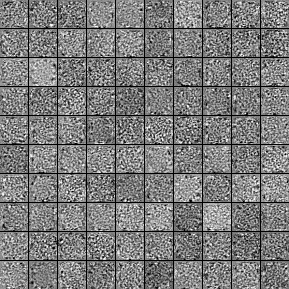
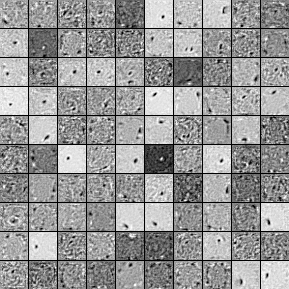
Promoting

diff --git a/library/Autoencoder.py b/library/Autoencoder.py
@@ -2,8 +2,13 @@ import tensorflow as tf
 
 
 class Autoencoder(object):
-
-    def __init__(self, n_layers, transfer_function=tf.nn.softplus, optimizer=tf.train.AdamOptimizer(), ae_para=[0, 0]):
+    def __init__(self,
+                 n_layers,
+                 transfer_function=tf.nn.relu,
+                 optimizer=tf.train.GradientDescentOptimizer(0.1),
+                 ae_para=[0, 0]):
+        
+        # AE层数
         self.n_layers = n_layers
         self.transfer = transfer_function
         self.in_keep_prob = 1 - ae_para[0]
@@ -12,32 +17,31 @@ class Autoencoder(object):
         self.weights = network_weights
         self.sparsity_level = 0.1  # np.repeat([0.05], self.n_hidden).astype(np.float32)
         self.sparse_reg = ae_para[1]
-        self.epsilon = 1e-06
 
         # model
-
         self.x = tf.placeholder(tf.float32, [None, self.n_layers[0]])
         self.keep_prob = tf.placeholder(tf.float32)
 
         self.hidden_encode = []
         h = tf.nn.dropout(self.x, self.keep_prob)
-        for layer in range(len(self.n_layers)-1):
+        for layer in range(len(self.n_layers) - 1):
             h = self.transfer(
                 tf.add(tf.matmul(h, self.weights['encode'][layer]['w']),
                        self.weights['encode'][layer]['b']))
             self.hidden_encode.append(h)
 
         self.hidden_recon = []
-        for layer in range(len(self.n_layers)-1):
+        for layer in range(len(self.n_layers) - 1):
             h = self.transfer(
                 tf.add(tf.matmul(h, self.weights['recon'][layer]['w']),
                        self.weights['recon'][layer]['b']))
             self.hidden_recon.append(h)
         self.reconstruction = self.hidden_recon[-1]
 
-        # cost
+        # costs
         if self.sparse_reg == 0:
-            self.cost = 0.5 * tf.reduce_sum(tf.pow(tf.subtract(self.reconstruction, self.x), 2.0))
+            self.cost = 0.5 * tf.reduce_sum(
+                tf.pow(tf.subtract(self.reconstruction, self.x), 2.0))
         else:
             self.cost = 0.5 * tf.reduce_sum(tf.pow(tf.subtract(self.reconstruction, self.x), 2.0))+\
                         self.sparse_reg * self.kl_divergence(self.sparsity_level, self.hidden_encode[-1])
@@ -49,16 +53,17 @@ class Autoencoder(object):
         initializer = tf.contrib.layers.xavier_initializer()
         # Encoding network weights
         encoder_weights = []
-        for layer in range(len(self.n_layers)-1):
+        for layer in range(len(self.n_layers) - 1):
             w = tf.Variable(
                 initializer((self.n_layers[layer], self.n_layers[layer + 1]),
                             dtype=tf.float32))
             b = tf.Variable(
                 tf.zeros([self.n_layers[layer + 1]], dtype=tf.float32))
             encoder_weights.append({'w': w, 'b': b})
+
         # Recon network weights
         recon_weights = []
-        for layer in range(len(self.n_layers)-1, 0, -1):
+        for layer in range(len(self.n_layers) - 1, 0, -1):
             w = tf.Variable(
                 initializer((self.n_layers[layer], self.n_layers[layer - 1]),
                             dtype=tf.float32))
@@ -69,15 +74,18 @@ class Autoencoder(object):
         all_weights['recon'] = recon_weights
         return all_weights
 
-
     def kl_divergence(self, p, p_hat):
-        return tf.reduce_mean(p * tf.log(tf.clip_by_value(p, 1e-8, tf.reduce_max(p)))
-                              - p * tf.log(tf.clip_by_value(p_hat, 1e-8, tf.reduce_max(p_hat)))
-                              + (1 - p) * tf.log(tf.clip_by_value(1-p, 1e-8, tf.reduce_max(1-p)))
-                              - (1 - p) * tf.log(tf.clip_by_value(1-p_hat, 1e-8, tf.reduce_max(1-p_hat))))
+        return tf.reduce_mean(
+            p * tf.log(tf.clip_by_value(p, 1e-8, tf.reduce_max(p))) -
+            p * tf.log(tf.clip_by_value(p_hat, 1e-8, tf.reduce_max(p_hat))) +
+            (1 - p) *
+            tf.log(tf.clip_by_value(1 - p, 1e-8, tf.reduce_max(1 - p))) -
+            (1 - p) *
+            tf.log(tf.clip_by_value(1 - p_hat, 1e-8, tf.reduce_max(1 - p_hat)))
+        )
 
     def partial_fit(self):
-        return  (self.cost, self.optimizer)
+        return (self.cost, self.optimizer)
 
     def calc_total_cost(self):
         return self.cost
@@ -88,7 +96,7 @@ class Autoencoder(object):
     def reconstruct(self):
         return self.reconstruction
 
-    def setNewX(self,x):
+    def setNewX(self, x):
         self.hidden_encode = []
         h = tf.nn.dropout(x, self.keep_prob)
         for layer in range(len(self.n_layers) - 1):
@@ -96,6 +104,3 @@ class Autoencoder(object):
                 tf.add(tf.matmul(h, self.weights['encode'][layer]['w']),
                        self.weights['encode'][layer]['b']))
             self.hidden_encode.append(h)
-
-
-

diff --git a/library/My Auto-Encoder.py b/library/My Auto-Encoder.py
@@ -1,0 +1,86 @@
+'''
+@Author: Cabrite
+@Date: 2019-11-04 19:45:33
+@LastEditTime: 2019-11-04 22:00:51
+@LastEditors: Please set LastEditors
+@Description: AE
+@FilePath: \Gabor-Auto-Encoder\library\My Auto-Encoder.py
+'''
+from tensorflow.examples.tutorials.mnist import input_data
+import matplotlib.pyplot as plt
+import tensorflow as tf
+import numpy as np
+import pylab
+
+def VisulizeImage(src_images, cor_images, res_images):
+    fig, ax = plt.subplots(nrows=3, ncols=6, sharex='all', sharey='all')
+    ax = ax.flatten()
+    all_images = []
+    for image in src_images:
+        all_images.append(image)
+    for image in cor_images:
+        all_images.append(image)
+    for image in res_images:
+        all_images.append(image)
+
+    for i, image in enumerate(all_images):
+        img = image.reshape(28, 28)
+        ax[i].imshow(img, cmap='Greys', interpolation='nearest')
+    ax[0].set_xticks([])
+    ax[0].set_yticks([])
+    plt.tight_layout()
+    plt.show()
+    
+######################## Defining Parameters ########################
+mnist = input_data.read_data_sets('MNIST_data', one_hot=True)
+n_samples = int(mnist.train.num_examples)
+training_epochs = 30
+batch_size = 128
+total_batch = int(n_samples / batch_size)
+display_step = 1
+test_data = mnist.test.images[0:6]
+
+n_inputs = 784
+n_hidden = 50
+n_outputs = 784
+
+######################## Defining Network ########################
+tf.reset_default_graph()
+
+x = tf.placeholder(tf.float32, [None, n_inputs])
+y = tf.placeholder(tf.float32, [None, n_outputs])
+keep_prob = tf.placeholder(tf.float32)
+
+# Add noise
+corruption = tf.nn.dropout(x, keep_prob)
+
+Encoder_Weight = tf.Variable(tf.random_normal([n_inputs, n_hidden]))
+Encoder_bias = tf.Variable(tf.zeros([n_hidden]))
+Encoder_output = tf.nn.softmax(tf.matmul(corruption, Encoder_Weight) + Encoder_bias)
+
+Decoder_Weight = tf.Variable(tf.random_normal([n_hidden, n_outputs]))
+Decoder_bias = tf.Variable(tf.zeros([n_outputs]))
+Decoder_output = tf.nn.softmax(tf.matmul(Encoder_output, Decoder_Weight) + Decoder_bias)
+
+cost = tf.reduce_sum(tf.pow(Decoder_output - x, 2))
+learning_rate = 0.1
+optimizer = tf.train.AdamOptimizer(learning_rate).minimize(cost)
+
+######################## Training Network ########################
+with tf.Session() as sess:
+    sess.run(tf.global_variables_initializer())
+    for epoch in range(training_epochs):
+        avg_cost = 0
+        for i in range(total_batch):
+            batch_xs, batch_ys = mnist.train.next_batch(batch_size)
+            _, batch_cost = sess.run([optimizer, cost], feed_dict={x:batch_xs, keep_prob:0.5})
+            avg_cost += batch_cost / total_batch
+        if (epoch + 1) % display_step == 0:
+            print("Epoch {:3}: cost = {:.9f}".format(epoch + 1, avg_cost))
+
+    cor = corruption.eval(feed_dict={x:test_data, keep_prob:0.5})
+    out = Decoder_output.eval(feed_dict={x:test_data, keep_prob:0.5})
+    VisulizeImage(test_data, cor[0:6], out[0:6])
+    print("Finished!")
+
+######################## Testing Network ########################

diff --git a/visualize_ae.py b/visualize_ae.py
@@ -13,7 +13,7 @@ training_epochs = 20
 batch_size = 128
 display_step = 1
 
-corruption_level = 0.0
+corruption_level = 0.2
 sparse_reg = 2
 
 #
